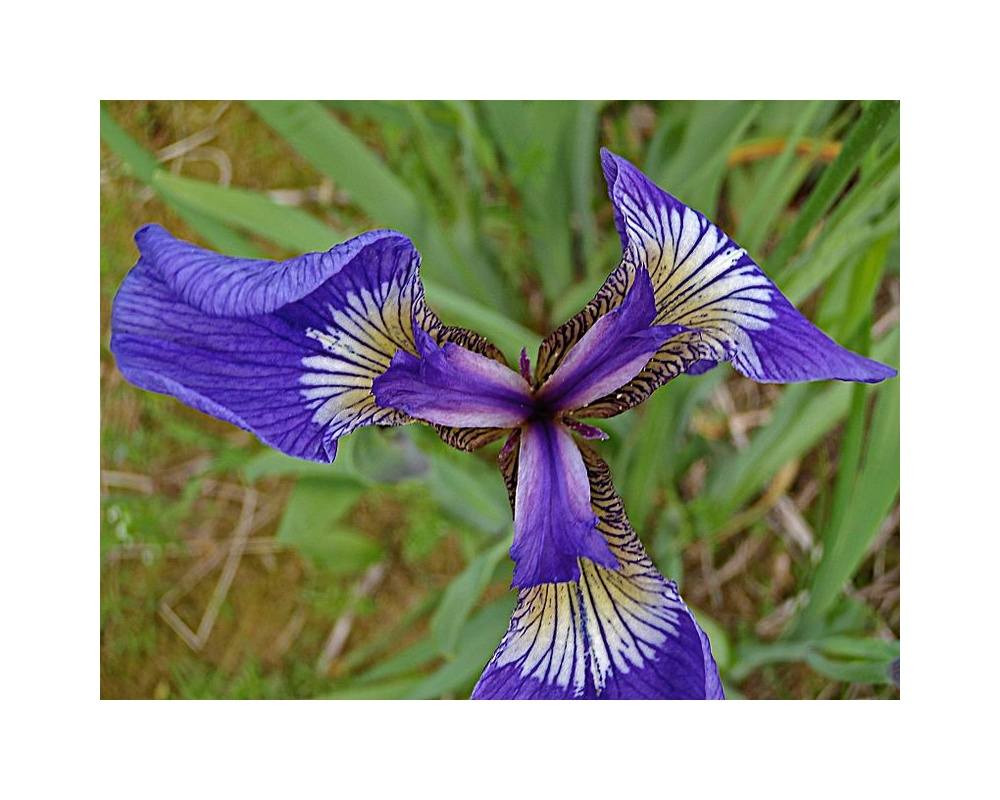
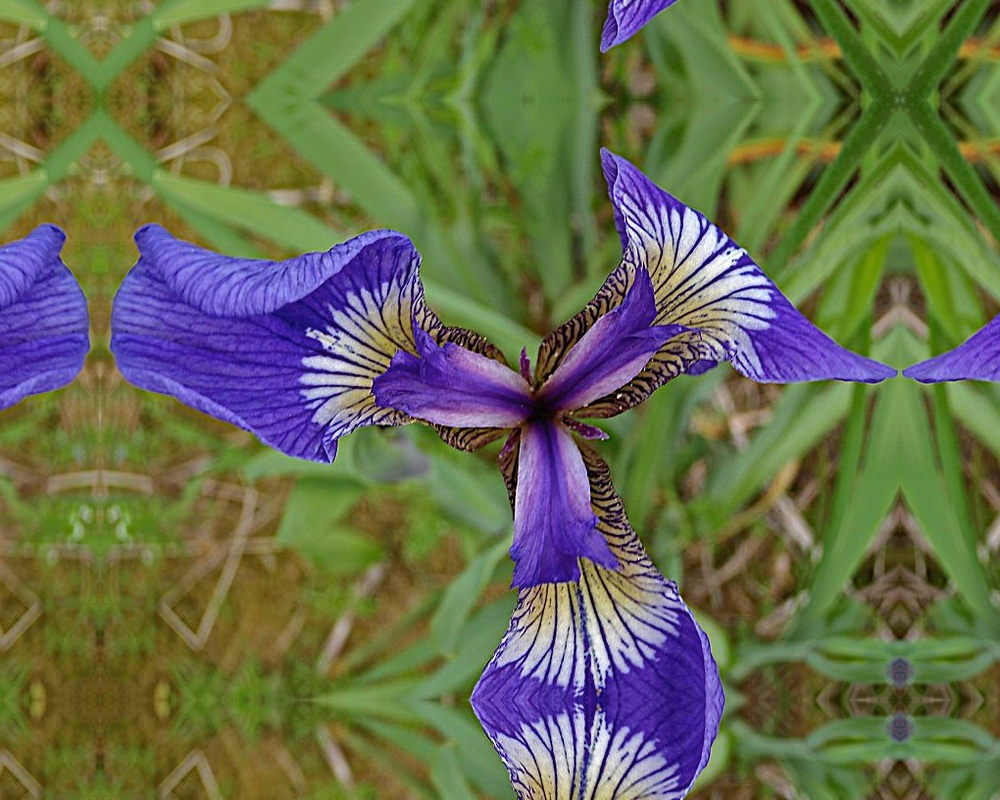
Make padding reflect the edges of the image and fix cropping

diff --git a/assignment_2/solutions/assignment_2.py b/assignment_2/solutions/assignment_2.py
@@ -10,8 +10,7 @@ def print_and_save(title, image_to_save):
     cv2.destroyAllWindows()
 
 def padding(image, border_width: int):
-    BLACK = [255,255,255]
-    image_w_borders = cv2.copyMakeBorder(image, border_width, border_width, border_width, border_width, cv2.BORDER_CONSTANT, value=BLACK)
+    image_w_borders = cv2.copyMakeBorder(image, border_width, border_width, border_width, border_width, cv2.BORDER_REFLECT)
 
     print_and_save('padding.jpg', image_w_borders)
 
@@ -22,8 +21,7 @@ def crop(image, x_0: int, x_1: int, y_0: int, y_1: int):
     print_and_save('crop.jpg', cropped_image)
 
 def resize(image, width: int, height: int):
-    rows, cols, channels = image.shape
-    resized_image = cv2.resize(image, (cols + width, rows + height), interpolation=cv2.INTER_CUBIC)
+    resized_image = cv2.resize(image, (width,height), interpolation=cv2.INTER_CUBIC)
 
     print_and_save('resize.jpg', resized_image)
 
